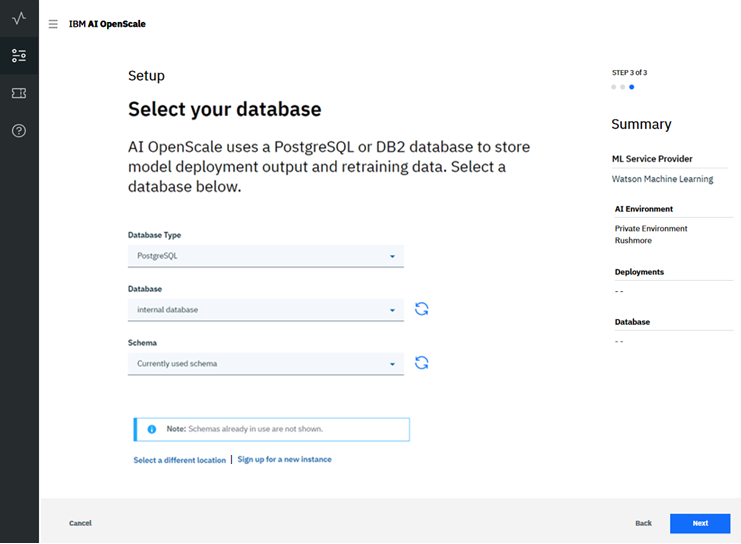
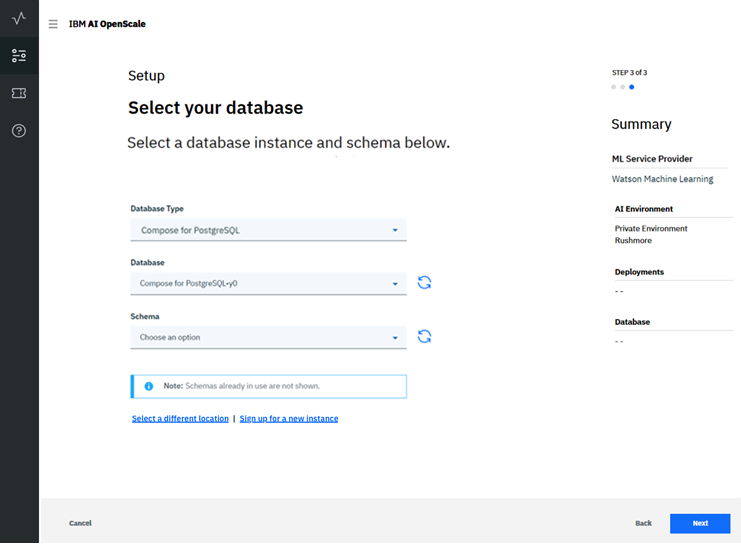
Database for Postgres, bias content updates

diff --git a/connect-db.md b/connect-db.md
@@ -2,7 +2,7 @@
 
 copyright:
   years: 2018, 2019
-lastupdated: "2019-01-02"
+lastupdated: "2019-02-05"
 
 ---
 
@@ -22,7 +22,7 @@ Specify a database for your {{site.data.keyword.aios_short}} instance to use.
 {: shortdesc}
 
 ## Connecting to your database
-{: #connect-config-db}
+{: #cdb-connect}
 
 {{site.data.keyword.aios_short}} uses a database to store payload, feedback, and measurement data. Besides selecting a database, you may also select a schema for your database - a schema is a named collection of tables in the database.
 
@@ -31,48 +31,77 @@ Specify a database for your {{site.data.keyword.aios_short}} instance to use.
     ![Select database](images/gs-config-database.png)
 
 ### Free Lite plan database
+{: #cdb-lite}
 
 **NOTE**: The free Lite plan database has some important limitations:
 
 - The free Lite plan database is hosted, and is not directly accessible to you.
 - {{site.data.keyword.aios_full}} will have full access to your database, and thus will have full access to your data.
-- The free Lite plan database is not GDPR-compliant. If your model processes personally-identifiable information (PII), you cannot use the free Lite plan database. You must purchase a new database, or use an existing database that conforms to GDPR rules. See [Information security](information-security.html) to learn more.
+- The free Lite plan database is not GDPR-compliant. If your model processes personally-identifiable information (PII), you cannot use the free Lite plan database. You must purchase a new database, or use an existing database that conforms to GDPR rules. See [Information security](/docs/services/ai-openscale/information-security.html) to learn more.
 
 To proceed with using the free Lite plan database, simply select that option, then review the summary data and click **Save**.
 
   ![Select database](images/gs-config-database2.png)
 
 ### Existing or new database
+{: #cdb-exn}
 
 1.  Once you have selected the "Use existing or purchase new database" option, {{site.data.keyword.aios_short}} checks your {{site.data.keyword.Bluemix_notm}} account to locate any existing databases.
 
-    For the current release, only a PostgreSQL or Db2 database is supported.
-  {: note}
-
-1.  Select your existing database type (PostgreSQL or Db2), then a database from the **Database** drop-down menu, and then a **Schema**:
+1.  Select your existing database type (Compose for Postgres, Database for Postgres, or Db2), then a database from the **Database** drop-down menu, and then a **Schema**:
 
     ![Select database](images/gs-config-database3.png)
 
 1.  You can also click **Select a different location** to specify a database location outside of your {{site.data.keyword.Bluemix_notm}} account.
 
-    - Select the **Database Type**, then fill in the connection information for your database location and click **Connect**:
+    - Select the **Database Type** (`Compose for PostgreSQL`, `Database for PostgreSQL`, or `Db2`), then provide connection information:
 
-      ![Select database](images/gs-config-database4.png)
+        - For a `Compose for PostgreSQL` database, complete the following:
+
+            - Hostname or IP address
+            - Port
+            - Database (name)
+            - Username
+            - Password
+
+            ![Specify Compose for Postgres db location](images/db-config-cpostgres.png)
+
+        - For a `Database for PostgreSQL` database, complete the following:
+
+            - Host name or IP address
+            - SSL Port
+            - Base-64 encoded certificate
+            - Database (name)
+            - Username
+            - Password
+
+            ![Specify Database for Postgres db location](images/db-config-dpostgres.png)
+
+        - For a `Db2` database, complete the following:
+
+            - Hostname or IP address
+            - SSL Port
+            - Database (name)
+            - Username
+            - Password
+
+            ![Specify Db2 location](images/db-config-db2.png)
 
     - Once you have successfully connected, you can select a schema.
 
-      ![Select database](images/gs-config-database5.png)
+      ![Select schema](images/gs-config-database5.png)
 
-Click **Next** to review the summary data and click **Save**.
+Click **Next** to review the summary data, then click **Save**.
 
 ## Sending a scoring request
+{: #cdb-score}
 
 To configure monitors, {{site.data.keyword.aios_short}} requires you to send a scoring request, in order to begin to log the data that will be monitored.
 
 Models deployed in Watson Machine Learning are automatically scored by {{site.data.keyword.aios_short}}. If you only have models deployed in Watson Machine Learning, you will not see this screen.
 {: note:}
 
-Select a deployment, in this case "Fraud Detector", and then use the provided `cURL` or `Python` code snippets to log model deployment request and response data. See [Payload logging for non-Watson Machine Learning service instances](connect-ml.html) for more detail.
+Select a deployment, in this case "Fraud Detector", and then use the provided `cURL` or `Python` code snippets to log model deployment request and response data. See [Payload logging for non-Watson Machine Learning service instances](/docs/services/ai-openscale/connect-ml.html) for more detail.
 
 The fields and values in the code snippets need to be substituted with your real values, as the ones provided are only examples.
 {: important}
@@ -82,6 +111,6 @@ The fields and values in the code snippets need to be substituted with your real
 Once you have run your payload logging, you will see a checkmark in the "Ready to Monitor" column for the selected deployment. Click **Configure Monitors** to continue.
 
 ## Next steps
-{: #connect-next}
+{: #cdb-next}
 
-{{site.data.keyword.aios_short}} is now ready for you to [configure monitors for your deployments](monitor-overview.html).
+{{site.data.keyword.aios_short}} is now ready for you to [configure monitors for your deployments](/docs/services/ai-openscale/monitor-overview.html).

diff --git a/monitor-fairness.md b/monitor-fairness.md
@@ -1,8 +1,8 @@
 ---
 
 copyright:
-  years: 2018
-lastupdated: "2018-12-03"
+  years: 2018, 2019
+lastupdated: "2019-02-04"
 
 ---
 
@@ -16,15 +16,15 @@ lastupdated: "2018-12-03"
 {:screen: .screen}
 
 # Fairness
-{: #monitor-fair}
+{: #mf-monitor}
 
 Fairness monitors your deployment for biases, to help ensure fair outcomes across different populations.
 {: shortdesc}
 
 ## Understanding Fairness
-{: #understand-fair}
+{: #mf-understand}
 
-{{site.data.keyword.aios_short}} checks your deployed model for bias at runtime. To detect bias for a deployed model, you must define feature requirements, such as Age or Gender, as detailed in [Configuring the Fairness monitor](monitor-fairness.html#config-fair) below.
+{{site.data.keyword.aios_short}} checks your deployed model for bias at runtime. To detect bias for a deployed model, you must define fairness attributes, such as Age or Gender, as detailed in [Configuring the Fairness monitor](monitor-fairness.html#mf-config) below.
 
 It is mandatory to specify the output schema for a model or function in Watson Machine Learning (WML), for bias checking to be enabled in {{site.data.keyword.aios_short}}. The output schema can be specified using the `client.repository.ModelMetaNames.OUTPUT_DATA_SCHEMA` property in the metadata part of the `store_model` API. For more information, see the [WML client documentation](http://wml-api-pyclient-dev.mybluemix.net/#repository)
 
@@ -53,10 +53,10 @@ Consider a data point where, for `Gender=Male` (Reference value), the model pred
 
 ### Supported models
 
- {{site.data.keyword.aios_short}} supports bias detection only for those models and Python functions which expect some kind of structured data in its feature vector. In the current release, bias detection is supported only for classification models (models which predict a categorical value); {{site.data.keyword.aios_short}} does not support bias detection for regression models (models which predict a continuous value).
+ {{site.data.keyword.aios_short}} supports bias detection only for those models and Python functions which expect some kind of structured data in its feature vector.
 
 ## Configuring the Fairness monitor
-{: #config-fair}
+{: #mf-config}
 
 1.  From the *What is Fairness?* page, click **Next** to start the configuration process.
 
@@ -64,7 +64,8 @@ Consider a data point where, for `Gender=Male` (Reference value), the model pred
 
 1.  On the *Select the features to monitor* page, find and select fairness attributes that you want to use and click **Next**.
 
-    **Note**: Only features which are of categorical, numeric (integer), float, or double fairness data type are supported. Features with other data types are not supported.
+    Only features which are of categorical, numeric (integer), float, or double fairness data type are supported. Features with other data types are not supported.
+    {: note}
 
     In this example, the `Age`, `Gender`, and `Ethnicity` features have been selected.
 
@@ -124,7 +125,30 @@ Consider a data point where, for `Gender=Male` (Reference value), the model pred
 
 1.  Click **Save** to complete your configuration.
 
+### Understanding how de-biasing works
+{: #mf-debias}
+
+You will then be presented with a screen that provides a de-biased scoring endpoint.
+
+  ![Debias API](images/fair-debias-api.png)
+
+The de-biased scoring endpoint can be used exactly as the normal scoring endpoint of your deployed model. In addition to returning the response of your deployed model, it also returns two extra columns called `debiased_prediction` and `debiased_probability`.
+
+- The `debiased_prediction` column contains the debiased prediction value. In the case of Watson Machine Learning (WML), this is an encoded representation of the prediction. For example, if the model prediction is either "Loan Granted" or "Loan Denied", WML can encode these two values to "0.0" and "1.0", respectively. The `debiased_prediction` column contains such an encoded representation of the debiased prediction.
+
+- The `debiased_probability` column, on the other hand, represents the probability of the debiased prediction. This is an array of double value, where each value represents the probability of the de-biased prediction belonging to one of the prediction classes.
+
+One another column, `debiased_decoded_target`, is also returned, in case you have a column in your output schema that contains a column with `modeling-role` as `decoded-target`.
+
+- The `debiased_decoded_target` column contains the string representation of the prediction. In the above example, where the prediction value was either "0.0" or "1.0", the `debiased_decoded_target` will contain either "Loan Granted" or "Loan Denied".
+
+Ideally, you would directly call this endpoint from your production application, instead of directly calling the scoring endpoint of your model deployed in your model serve engine (Watson Machine Learning, Amazon Sagemaker, Microsoft Azure ML Studio, etc.) This way, {{site.data.keyword.aios_short}} will also store the `debiased` values in the payload logging table of your model deployment. Then, all scoring done via this endpoint would be automatically de-biased.
+
+Because this endpoint deals with runtime bias, it will continue to run background checks for the latest scoring data from the payload logging table, and keep updating the bias mitigation model which is used to de-bias the scoring requests sent. In this way, {{site.data.keyword.aios_short}} is always up-to-date with the latest incoming data, and with its behavior to detect and mitigate bias.
+
+Finally, {{site.data.keyword.aios_short}} uses a threshold to decide that data is now acceptable and is deemed to be unbiased. That threshold is taken as the least value from the thresholds set in the Fairness monitor for all the fairness attributes configured.
+
 ### Next steps
-{: #fair-next}
+{: #mf-next}
 
 From the *Configure monitors* page, you can select another monitoring category.
